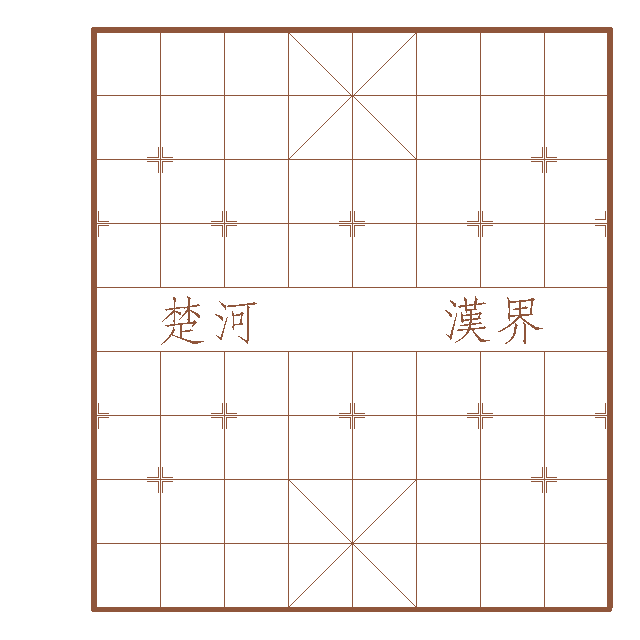
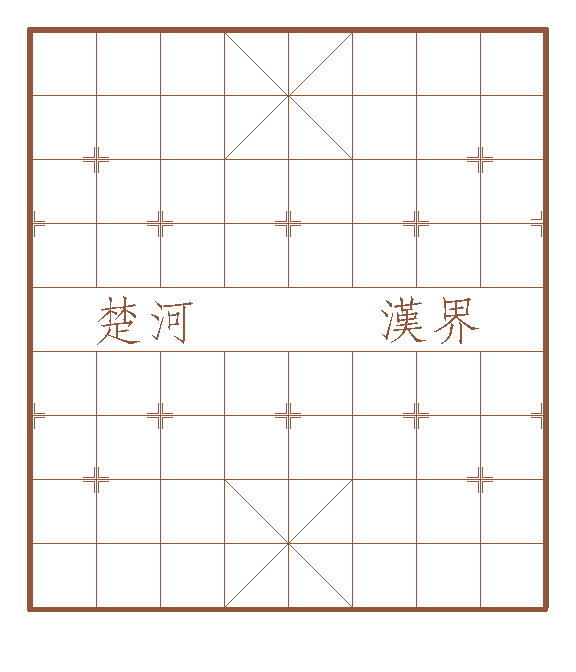
fix(app.core):解决了一些不过、

diff --git a/app/game.go b/app/game.go
@@ -101,8 +101,8 @@ func (g *Game) Update() error {
 					g.moveSpriteToFront(sp)
 
 					// 将操作传给核心层校验，然后移动被选中的棋子到目标坐标
-					sourceCoreX, sourceCoreY := g.transformCoordinate(g.clickedSprite.x+spriteReparation, g.clickedSprite.y+spriteReparation)
-					targetCoreX, targetCoreY := g.transformCoordinate(sp.x+spriteReparation, sp.y+spriteReparation)
+					sourceCoreX, sourceCoreY := g.transformCoordinate(g.clickedSprite.x-g.spriteReparation, g.clickedSprite.y-g.spriteReparation)
+					targetCoreX, targetCoreY := g.transformCoordinate(sp.x-g.spriteReparation, sp.y-g.spriteReparation)
 					if g.player1.GetGroup() == g.nextRoundGroup {
 
 						g.p1Ch <- player.Statement{
@@ -176,7 +176,7 @@ func (g *Game) Update() error {
 			}
 			g.moveSpriteToFront(g.clickedSprite)
 			// 将操作传给核心层校验，然后移动被选中的棋子到目标坐标
-			sourceCoreX, sourceCoreY := g.transformCoordinate(g.clickedSprite.x+spriteReparation, g.clickedSprite.y+spriteReparation)
+			sourceCoreX, sourceCoreY := g.transformCoordinate(g.clickedSprite.x-g.spriteReparation, g.clickedSprite.y-g.spriteReparation)
 			if g.player1.GetGroup() == g.nextRoundGroup {
 				g.p1Ch <- player.Statement{
 					Group: g.player1.GetGroup(),
@@ -235,7 +235,7 @@ func (g *Game) Draw(screen *ebiten.Image) {
 	//绘制棋子
 	for _, s := range g.sprites {
 		if s.clicked {
-			s.Draw(screen, 0.5)
+			s.Draw(screen, 0.7)
 		} else {
 			s.Draw(screen, 1)
 		}

diff --git a/core/chessgame/chessgame.go b/core/chessgame/chessgame.go
@@ -167,6 +167,7 @@ func (game *ChessGame) Run(downPlayerCh, upPlayerCh chan player.Statement) (msgC
 						WonGroup:        core.GroupNone,
 						Msg:             err.Error(),
 					}
+					continue
 				}
 
 				game.round = 1 //棋子移动完毕先手已经执行
@@ -222,13 +223,14 @@ func (game *ChessGame) Run(downPlayerCh, upPlayerCh chan player.Statement) (msgC
 				//移动棋子
 				wonCode, err := game.board.MoveChessman(st.Group, st.Code, st.Source, st.Target)
 				if err != nil {
-					gameMsg := GameMsg{
+					msgChan <- GameMsg{
 						Event:           Err,
 						WonChessmanCode: "",
 						WonGroup:        core.GroupNone,
 						Msg:             err.Error(),
 					}
-					msgChan <- gameMsg
+
+					continue
 				}
 
 				game.round = -1 //棋子移动完毕先手已经执行

diff --git a/app/structure.go b/app/structure.go
@@ -1,7 +1,7 @@
 package app
 
 const (
-	boardLogicZeroX  int = 96
+	boardLogicZeroX  int = 32
 	boardLogicZeroY  int = 32
 	gridLength       int = 64
 	spriteReparation int = -26

diff --git a/app/images.go b/app/images.go
@@ -9,8 +9,8 @@ import (
 )
 
 var (
-	ScreenWidth  = 640
-	ScreenHeight = 640
+	ScreenWidth  = 576
+	ScreenHeight = 672
 )
 
 var (
